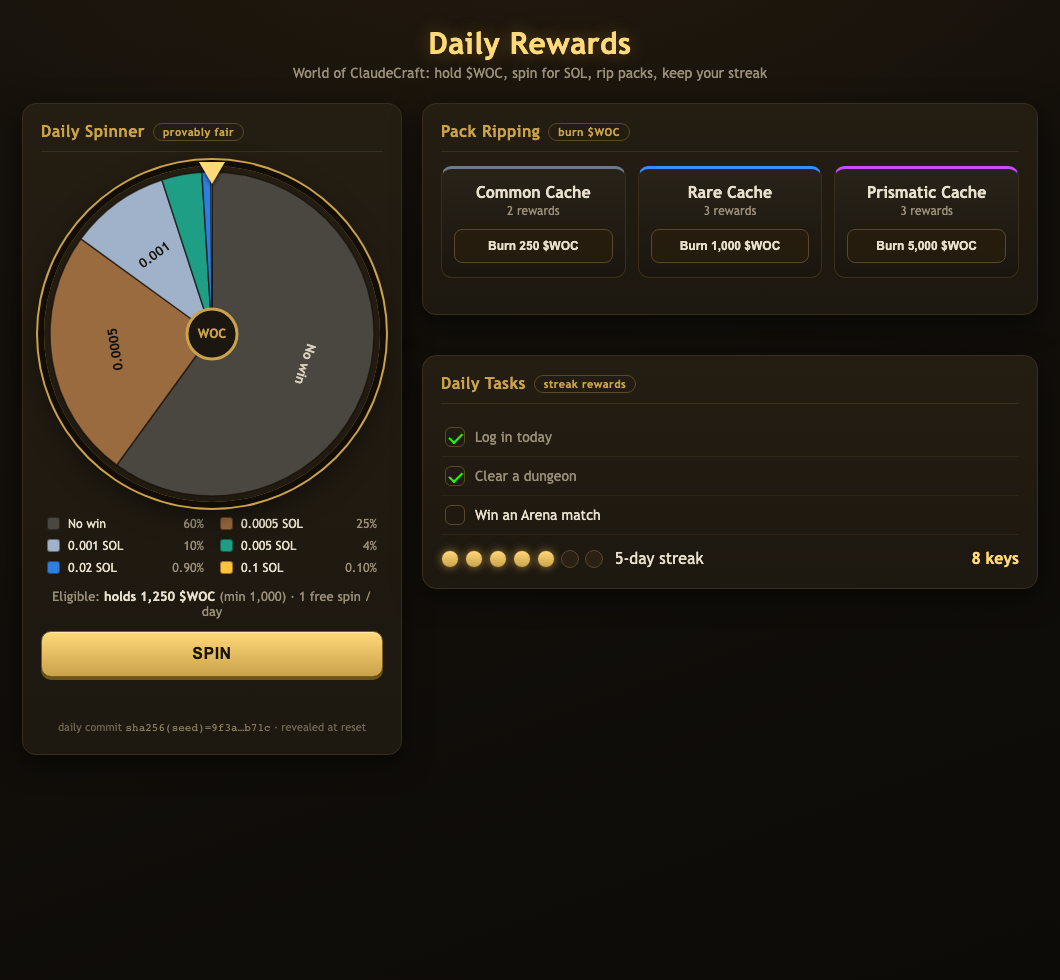
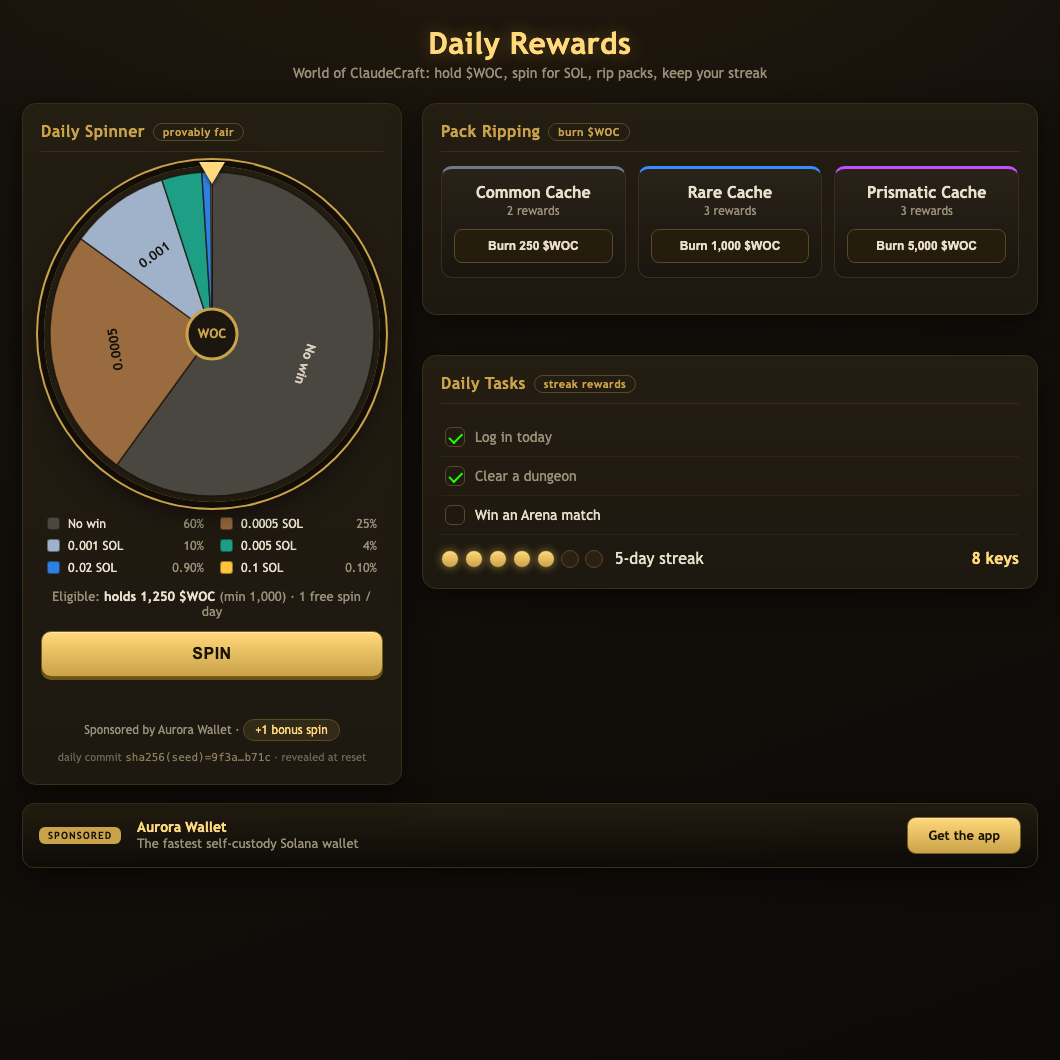
feat(engagement): sponsored-spin slot in the daily-rewards HUD
Integrates the ad marketplace's creative contract into the spinner HUD so brands
can sponsor the daily spin and fill the empty space.

- src/ui/sponsored_slot.ts (pure, unit-tested): SponsoredAd type matching the
  ad-marketplace server ActiveAd (placementId, kind, headline, cta, clickUrl,
  advertiser, endSec); activeSponsor() picks/rotates the live booking for a
  placement; safeClickUrl() hardens the external link (http(s)+host only, blocks
  javascript:/data:/relative); ctaLabel()/attribution() for display. 8 tests.
- HUD: a sponsor banner across the bottom empty space (advertiser + headline +
  CTA to the external clickUrl), a "Sponsored by <brand>" attribution under the
  spin, and a rewarded "+1 bonus spin" chip. Consumes the same shape
  adService.getForPlacement('daily_spin') returns, so it plugs into the real ad
  serving via a new daily_spin placement.

The ad marketplace itself stays in its own (uncommitted) feature/woc-ad-marketplace
worktree; this only borrows its public creative contract. 136 tests green, tsc
strict clean.

diff --git a/src/ui/sponsored_slot.ts b/src/ui/sponsored_slot.ts
@@ -1,0 +1,81 @@
+// Pure ad-selection + sanitization for sponsored placements in the daily-rewards
+// HUD (the "sponsored spin" slot). Contract-compatible with the ad-marketplace's
+// server ActiveAd (placementId, kind, text, clickUrl, cta, advertiser, endSec) so
+// the HUD can consume `adService.getForPlacement('daily_spin')` directly once that
+// feature lands; until then a sample ad drives the UI. Zero DOM so the selection,
+// rotation, and URL/CTA hardening are unit-tested and the HUD is a thin consumer.
+
+export type AdKind = 'image' | 'text';
+
+export interface SponsoredAd {
+  /** Placement this booking targets, e.g. 'daily_spin'. */
+  placementId: string;
+  advertiser: string;
+  /** Text-creative copy (the ad-marketplace `text` field). */
+  headline: string;
+  /** Real-world call to action ("Get the app", "20% off"). */
+  cta: string;
+  /** External destination; only http(s) is rendered (see safeClickUrl). */
+  clickUrl: string;
+  kind: AdKind;
+  /** For image creatives: the served image URL (e.g. /api/ads/creative/:id). */
+  imageUrl?: string;
+  /** Unix seconds when this booking ends; past bookings are never shown. */
+  endSec: number;
+}
+
+/** How long each live sponsor holds the slot before rotating to the next (seconds). */
+export const ROTATE_SECONDS = 30;
+
+/**
+ * The sponsor to show for `placementId` at `nowSec`: among the bookings live now
+ * (endSec > nowSec) for that placement, rotate deterministically by wall-clock so
+ * co-booked advertisers share the slot evenly. Returns null when nothing is live,
+ * so the HUD cleanly shows no sponsor (the empty space stays empty, not broken).
+ */
+export function activeSponsor(ads: readonly SponsoredAd[], placementId: string, nowSec: number): SponsoredAd | null {
+  const live = ads.filter((a) => a.placementId === placementId && a.endSec > nowSec);
+  if (live.length === 0) return null;
+  const slot = Math.floor(Math.max(0, nowSec) / ROTATE_SECONDS) % live.length;
+  return live[slot];
+}
+
+/**
+ * Return `url` only when it is a safe external http(s) link, else null. Blocks
+ * javascript:, data:, and relative/garbage URLs so a malicious creative cannot
+ * smuggle script into the HUD via the click target. The HUD renders the CTA as a
+ * plain link only when this returns non-null.
+ */
+export function safeClickUrl(url: string): string | null {
+  const u = url.trim();
+  if (!/^https?:\/\//i.test(u)) return null;
+  // URL must parse and keep an http(s) protocol (rejects "http://" with no host).
+  const parsed = parseUrl(u);
+  if (!parsed) return null;
+  if (parsed.protocol !== 'http:' && parsed.protocol !== 'https:') return null;
+  if (!parsed.host) return null;
+  return parsed.href;
+}
+
+// new URL() throws on malformed input; wrap once so callers stay total. (This is
+// input validation of attacker-controlled creative data, not a defensive default.)
+function parseUrl(u: string): URL | null {
+  try {
+    return new URL(u);
+  } catch {
+    return null;
+  }
+}
+
+/** A trimmed, length-capped CTA label safe to drop into a button. */
+export function ctaLabel(cta: string, max = 28): string {
+  const c = cta.trim().replace(/\s+/g, ' ');
+  if (c.length <= max) return c;
+  return `${c.slice(0, max - 1).trimEnd()}…`;
+}
+
+/** "Sponsored by <advertiser>" attribution, with a sane fallback when unnamed. */
+export function attribution(ad: SponsoredAd): string {
+  const name = ad.advertiser.trim();
+  return name ? `Sponsored by ${name}` : 'Sponsored';
+}

diff --git a/scripts/spin_pack_demo_entry.ts b/scripts/spin_pack_demo_entry.ts
@@ -13,6 +13,7 @@ import {
   fitsLabel,
 } from '../src/ui/spin_wheel_core';
 import { revealOrder, topRarity, Rarity } from '../src/ui/pack_reveal_core';
+import { SponsoredAd, activeSponsor, safeClickUrl, ctaLabel, attribution } from '../src/ui/sponsored_slot';
 
 // ---- data mirrored from server/spin_prizes.ts (DEFAULT_PRIZE_TABLE) ----
 interface Prize { key: string; sol: number; weight: number; color: string; }
@@ -46,7 +47,16 @@ const RARE_CACHE_RIP: Reward[] = [
   { name: 'Keen Dirk', rarity: 'uncommon', kind: 'gear' },
 ];
 
+// Sample bookings for the 'daily_spin' placement. In production these come from
+// the ad-marketplace: adService.getForPlacement('daily_spin') -> ActiveAd[], which
+// has the identical shape (advertiser, text->headline, cta, clickUrl, endSec).
+const SPONSORS: SponsoredAd[] = [
+  { placementId: 'daily_spin', advertiser: 'Aurora Wallet', headline: 'The fastest self-custody Solana wallet', cta: 'Get the app', clickUrl: 'https://example.com/aurora', kind: 'text', endSec: Number.MAX_SAFE_INTEGER },
+  { placementId: 'daily_spin', advertiser: 'Drift Protocol', headline: 'Trade Solana perps, zero gas', cta: 'Start trading', clickUrl: 'https://example.com/drift', kind: 'text', endSec: Number.MAX_SAFE_INTEGER },
+];
+
 const $ = (id: string) => document.getElementById(id) as HTMLElement;
+const esc = (s: string) => s.replace(/[&<>"]/g, (c) => ({ '&': '&amp;', '<': '&lt;', '>': '&gt;', '"': '&quot;' })[c]!);
 const TAU = Math.PI * 2;
 const segments = wheelSegments(PRIZES.map((p) => ({ key: p.key, weight: p.weight })));
 
@@ -190,11 +200,39 @@ function renderTasks(): void {
     .join('');
 }
 
+// ---- sponsored slot (ad-marketplace 'daily_spin' placement) ----
+let bonusSpins = 0;
+function renderSponsor(): void {
+  const ad = activeSponsor(SPONSORS, 'daily_spin', Math.floor(Date.now() / 1000));
+  const banner = $('sponsorBanner');
+  const line = $('sponsorLine');
+  if (!ad) { banner.classList.add('hidden'); line.classList.add('hidden'); return; }
+  const href = safeClickUrl(ad.clickUrl);
+  const ctaHtml = href
+    ? `<a class="ad-cta" href="${esc(href)}" target="_blank" rel="noopener noreferrer">${esc(ctaLabel(ad.cta))}</a>`
+    : '';
+  banner.classList.remove('hidden');
+  banner.innerHTML =
+    `<span class="ad-tag">Sponsored</span>` +
+    `<div class="ad-body"><b>${esc(ad.advertiser)}</b><span>${esc(ad.headline)}</span></div>` +
+    ctaHtml;
+  line.classList.remove('hidden');
+  line.innerHTML = `${esc(attribution(ad))} &middot; <button class="bonus-chip" id="bonusChip">+1 bonus spin</button>`;
+  const chip = $('bonusChip') as HTMLButtonElement;
+  chip.addEventListener('click', () => {
+    bonusSpins += 1;
+    chip.disabled = true;
+    chip.textContent = 'Bonus spin unlocked';
+    $('spinResult').innerHTML = `<span class="win">+1 sponsored spin</span> from ${esc(ad.advertiser)} (${bonusSpins} banked). Spin again.`;
+  });
+}
+
 function init(): void {
   drawWheel();
   renderLegend();
   renderPacks();
   renderTasks();
+  renderSponsor();
   $('spinBtn').addEventListener('click', spin);
   // Keep the wheel crisp + correctly sized across viewport changes.
   let raf = 0;

diff --git a/tests/sponsored_slot.test.ts b/tests/sponsored_slot.test.ts
@@ -1,0 +1,79 @@
+import { describe, expect, it } from 'vitest';
+import {
+  SponsoredAd,
+  ROTATE_SECONDS,
+  activeSponsor,
+  safeClickUrl,
+  ctaLabel,
+  attribution,
+} from '../src/ui/sponsored_slot';
+
+const ad = (over: Partial<SponsoredAd>): SponsoredAd => ({
+  placementId: 'daily_spin',
+  advertiser: 'Aurora Wallet',
+  headline: 'The fastest Solana wallet',
+  cta: 'Get the app',
+  clickUrl: 'https://aurora.example',
+  kind: 'text',
+  endSec: 10_000,
+  ...over,
+});
+
+describe('activeSponsor', () => {
+  it('returns null when nothing is live for the placement', () => {
+    expect(activeSponsor([], 'daily_spin', 100)).toBeNull();
+    expect(activeSponsor([ad({ placementId: 'newspaper' })], 'daily_spin', 100)).toBeNull();
+    expect(activeSponsor([ad({ endSec: 50 })], 'daily_spin', 100)).toBeNull(); // expired
+  });
+
+  it('returns the single live booking for the placement', () => {
+    const a = ad({ advertiser: 'OnlyOne' });
+    expect(activeSponsor([a], 'daily_spin', 100)?.advertiser).toBe('OnlyOne');
+  });
+
+  it('rotates deterministically among co-booked live ads by wall-clock', () => {
+    const a = ad({ advertiser: 'A' });
+    const b = ad({ advertiser: 'B' });
+    expect(activeSponsor([a, b], 'daily_spin', 0)?.advertiser).toBe('A');
+    expect(activeSponsor([a, b], 'daily_spin', ROTATE_SECONDS)?.advertiser).toBe('B');
+    expect(activeSponsor([a, b], 'daily_spin', ROTATE_SECONDS * 2)?.advertiser).toBe('A');
+  });
+
+  it('ignores other placements and expired bookings when rotating', () => {
+    const live = ad({ advertiser: 'Live' });
+    const other = ad({ advertiser: 'Other', placementId: 'billboard' });
+    const dead = ad({ advertiser: 'Dead', endSec: 1 });
+    expect(activeSponsor([live, other, dead], 'daily_spin', 100)?.advertiser).toBe('Live');
+  });
+});
+
+describe('safeClickUrl', () => {
+  it('accepts http(s) links with a host', () => {
+    expect(safeClickUrl('https://aurora.example/app')).toBe('https://aurora.example/app');
+    expect(safeClickUrl('  http://shop.example?code=WOC20 ')).toBe('http://shop.example/?code=WOC20');
+  });
+
+  it('rejects script, data, relative, hostless, and garbage URLs', () => {
+    expect(safeClickUrl('javascript:alert(1)')).toBeNull();
+    expect(safeClickUrl('data:text/html,<script>1</script>')).toBeNull();
+    expect(safeClickUrl('/relative/path')).toBeNull();
+    expect(safeClickUrl('http://')).toBeNull();
+    expect(safeClickUrl('not a url')).toBeNull();
+    expect(safeClickUrl('')).toBeNull();
+  });
+});
+
+describe('ctaLabel', () => {
+  it('trims, collapses whitespace, and caps length with an ellipsis', () => {
+    expect(ctaLabel('  Get   the app ')).toBe('Get the app');
+    expect(ctaLabel('20% off your first order with code WOC20 today only', 16)).toBe('20% off your fi…');
+    expect(ctaLabel('Short', 16)).toBe('Short');
+  });
+});
+
+describe('attribution', () => {
+  it('names the advertiser, falling back when unnamed', () => {
+    expect(attribution(ad({ advertiser: 'Aurora Wallet' }))).toBe('Sponsored by Aurora Wallet');
+    expect(attribution(ad({ advertiser: '  ' }))).toBe('Sponsored');
+  });
+});

diff --git a/scripts/spin_pack_demo.html b/scripts/spin_pack_demo.html
@@ -100,12 +100,28 @@
   .streak .dot.on { background:linear-gradient(180deg,var(--gold-bright),var(--gold)); box-shadow:0 0 8px rgba(202,162,74,.6); }
   .streak .keys { margin-left:auto; font-weight:700; color:var(--gold-bright); }
   .col { display:flex; flex-direction:column; gap:22px; }
+  /* sponsored slot (ad-marketplace 'daily_spin' placement) */
+  .sponsor-line { text-align:center; margin:8px 0 2px; font-size:12px; color:var(--muted); }
+  .bonus-chip { font:inherit; font-size:12px; color:var(--gold-bright); background:rgba(202,162,74,.12); border:1px solid var(--border-lt); border-radius:999px; padding:3px 11px; cursor:pointer; }
+  .bonus-chip:hover { border-color:var(--gold); }
+  .bonus-chip:disabled { color:var(--muted); cursor:default; }
+  .sponsor-banner { margin-top:18px; display:flex; align-items:center; gap:16px; padding:13px 16px; border:1px solid var(--border); border-radius:12px; box-shadow:var(--shadow);
+    background:linear-gradient(180deg, rgba(202,162,74,.10), rgba(0,0,0,.18)); }
+  .sponsor-banner.hidden, .sponsor-line.hidden { display:none; }
+  .ad-tag { font-size:10px; text-transform:uppercase; letter-spacing:1px; color:#15110b; background:var(--gold); padding:3px 9px; border-radius:6px; font-weight:700; flex:0 0 auto; }
+  .ad-body { display:flex; flex-direction:column; line-height:1.3; min-width:0; }
+  .ad-body b { color:var(--gold-bright); font-size:14px; }
+  .ad-body span { color:var(--muted); font-size:13px; }
+  .ad-cta { margin-left:auto; padding:10px 20px; border-radius:9px; font-weight:700; font-size:13px; text-decoration:none; white-space:nowrap; color:#1b1304; border:1px solid #7a5e1f; flex:0 0 auto;
+    background:linear-gradient(180deg,var(--gold-bright),var(--gold)); box-shadow:inset 0 1px 0 rgba(255,255,255,.4); }
   @media (max-width:780px) {
     .frame { padding:18px 14px 32px; }
     .grid { grid-template-columns:1fr; gap:16px; }
     .wheel-wrap { max-width:300px; }
     .pack-cards, .rip-reveal { grid-template-columns:1fr; }
     .spin-btn, .burn { min-height:44px; }
+    .sponsor-banner { flex-wrap:wrap; }
+    .ad-cta { margin-left:0; width:100%; text-align:center; min-height:44px; line-height:24px; }
   }
 </style>
 </head>
@@ -126,6 +142,7 @@
         <div class="gate">Eligible: <b>holds 1,250 $WOC</b> (min 1,000) · 1 free spin / day</div>
         <button class="spin-btn" id="spinBtn">SPIN</button>
         <div id="spinResult"></div>
+        <div class="sponsor-line hidden" id="sponsorLine"></div>
         <div class="fairness">daily commit <code>sha256(seed)=9f3a…b71c</code> · revealed at reset</div>
       </section>
       <div class="col">
@@ -149,6 +166,7 @@
         </section>
       </div>
     </div>
+    <div class="sponsor-banner hidden" id="sponsorBanner"></div>
   </div>
   <script src="./spin_pack_demo.bundle.js"></script>
 </body>
